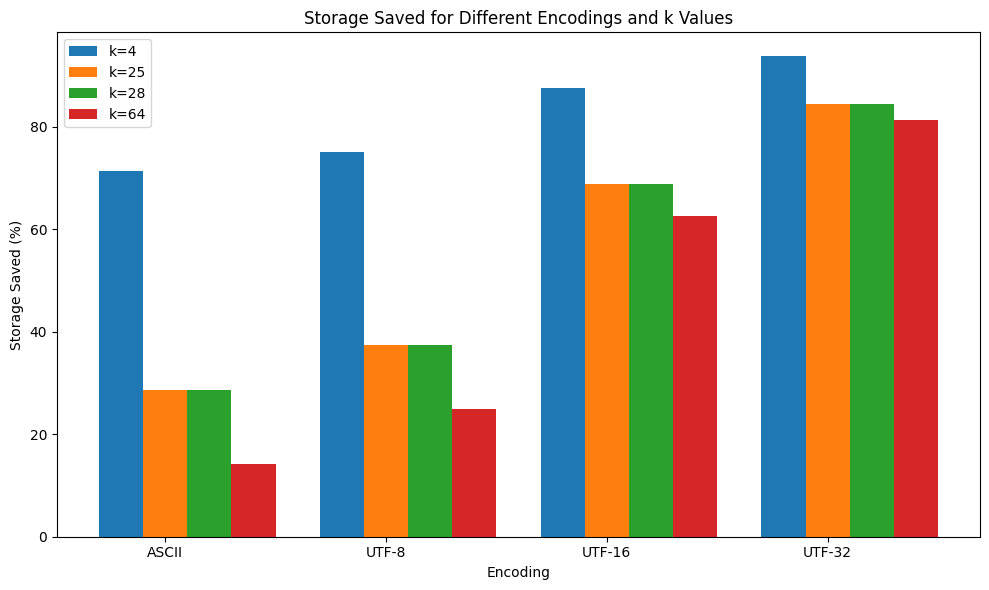
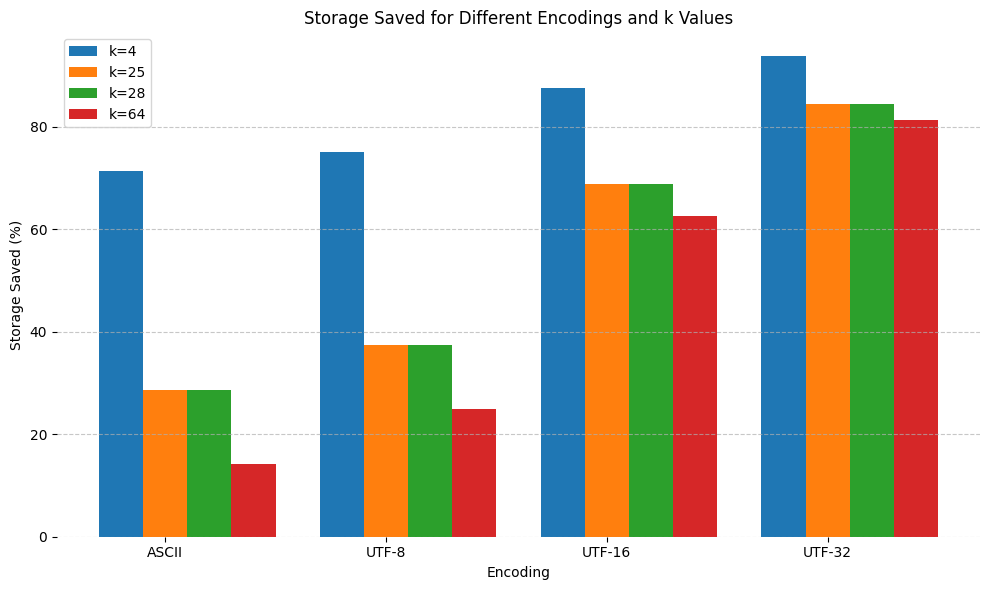
Final version

diff --git a/helpers.py b/helpers.py
@@ -1,4 +1,10 @@
+import math
+
 import numpy as np
+import pandas as pd
+import matplotlib.pyplot as plt
+
+ENCODINGS = ["ASCII", "UTF-8", "UTF-16", "UTF-32"]
 
 
 utf8_repr = {"A": 0b01000001, "C": 0b01000011, "T": 0b01010100, "G": 0b01000111}
@@ -33,6 +39,124 @@ def get_compact_repr(seq: str, to_chunks=False):
 
     return binary_repr
 
+
+def plot_bin_vs_compact(df: pd.DataFrame):
+    bin_edges = np.arange(0, df["bin_len"].max() + 100, 100)  # Define bin edges
+    df["bin"] = pd.cut(
+        df["bin_len"], bins=bin_edges, include_lowest=True
+    )  # Create bin column
+    bin_means = df.groupby("bin")[
+        "comp_len"
+    ].mean()  # Calculate mean compact length for each bin
+    bin_means.index = [f"{int(label.left)}-" for label in bin_means.index]
+
+    # Plotting
+    plt.figure(figsize=(10, 6))
+    bar_width = 0.35
+    index = np.arange(len(bin_means))
+
+    # Binary lengths
+    plt.bar(
+        index,
+        df.groupby("bin")["bin_len"].mean(),
+        bar_width,
+        label="Binary Length",
+        color="skyblue",
+    )
+
+    # Compact lengths
+    plt.bar(index + bar_width, bin_means, bar_width, label="Compact Length", color="orange")
+
+    plt.xlabel("Binary Length Bins")
+    plt.ylabel("Mean Length")
+    plt.title("Comparison of Binary Lengths and Compact Lengths")
+    plt.xticks(index[3:] + bar_width / 2, bin_means.index[3:], rotation=45)
+    plt.legend()
+    plt.grid(axis="y", linestyle="--", alpha=0.7)
+    plt.tight_layout()
+    # remove borders
+    plt.gca().spines["top"].set_visible(False)
+    plt.gca().spines["right"].set_visible(False)
+    plt.gca().spines["left"].set_visible(False)
+    plt.gca().spines["bottom"].set_visible(False)
+    plt.show()
+
+
+def plot_storage_saved_for_each_encoding():
+    # Data
+    k_values = [4, 25, 28, 64]
+    encodings = ["ASCII", "UTF-8", "UTF-16", "UTF-32"]
+    storage_saved_data = {
+        4: [71.43, 75.00, 87.50, 93.75],
+        25: [28.57, 37.50, 68.75, 84.38],
+        28: [28.57, 37.50, 68.75, 84.38],
+        64: [14.29, 25.00, 62.50, 81.25],
+    }
+
+    # Plotting
+    fig, ax = plt.subplots(figsize=(10, 6))
+
+    bar_width = 0.2
+    index = [i for i in range(len(encodings))]
+
+    for i, k in enumerate(k_values):
+        ax.bar(
+            [x + i * bar_width for x in index],
+            storage_saved_data[k],
+            bar_width,
+            label=f"k={k}",
+        )
+
+    ax.set_xlabel("Encoding")
+    ax.set_ylabel("Storage Saved (%)")
+    ax.set_title("Storage Saved for Different Encodings and k Values")
+    ax.set_xticks([i + bar_width for i in index])
+    ax.set_xticklabels(encodings)
+    ax.legend()
+
+    # remove borders
+    ax.spines["top"].set_visible(False)
+    ax.spines["right"].set_visible(False)
+    ax.spines["left"].set_visible(False)
+    ax.spines["bottom"].set_visible(False)
+
+    # add horizontal grid lines
+    plt.grid(axis="y", linestyle="--", alpha=0.7)
+
+
+    plt.tight_layout()
+    plt.show()
+
+
+def storage_saved(k, n):
+    eta = n / math.ceil(math.log2(k))
+    delta = (eta - 1) / eta
+    return delta
+
+
+def enc_saved(k, encoding):
+    enc_sizes = {
+        "ASCII": 7,
+        "UTF-8": 8,
+        "UTF-16": 16,
+        "UTF-32": 32,
+    }
+
+    n = enc_sizes[encoding]
+
+    return storage_saved(k, n)
+
+
+def print_data_for_k(k):
+    print(
+        f"Storage saved for k={k}, which is the number of possible characters for a DNA/RNA sequence"
+    )
+    for encoding in ENCODINGS:
+        delta = enc_saved(k, encoding)
+        print(
+            f"If the encoding was {encoding}\twith k={k}, storage saved: {delta * 100:.2f}%"
+        )
+    print()
 
 
 
